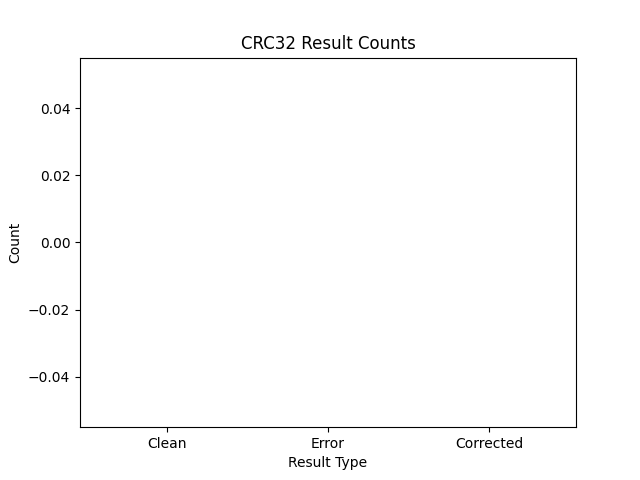
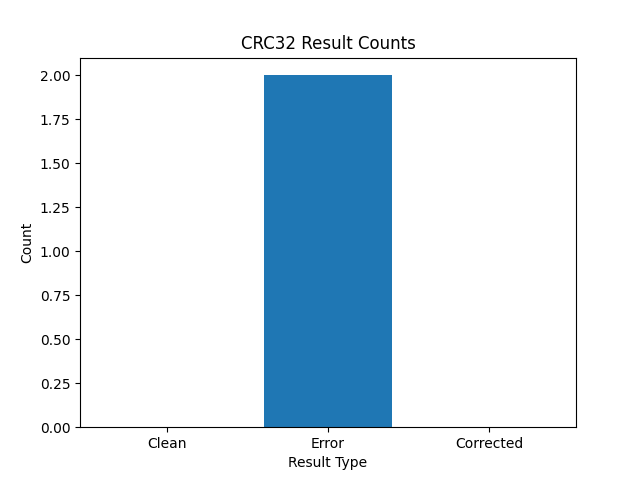
pruebas done

diff --git a/pruebas.py b/pruebas.py
@@ -75,15 +75,6 @@ if __name__ == "__main__":
                 with open("hamming.txt", "w") as hamming_file:
                     hamming_file.truncate(0)
 
-                # Crear la gráfica de barras para Hamming
-                plt.bar(x, hamming_counts, align='center')
-                plt.xlabel('Result Type')
-                plt.ylabel('Count')
-                plt.title('Hamming Result Counts')
-                plt.xticks(x, labels)
-                plt.savefig('hamming_' + str(probabilidad) +'.png' )
-                plt.clf()
-
             if os.path.exists("crc32.txt"):
                 with open("crc32.txt", "r") as crc32_file:
                     lines = crc32_file.readlines()
@@ -99,11 +90,26 @@ if __name__ == "__main__":
                 with open("crc32.txt", "w") as crc32_file:
                     crc32_file.truncate(0)
 
-                # Crear la gráfica de barras para Hamming
+            
+            if metodo == 1:
+                # Gráfica de Hamming
+                hamming_counts = [clean_counts_hamming, error_counts_hamming, corrected_counts_hamming]
+                plt.bar(x, hamming_counts, align='center')
+                plt.xlabel('Result Type')
+                plt.ylabel('Count')
+                plt.title('Hamming Result Counts')
+                plt.xticks(x, labels)
+                plt.savefig('hamming_' + str(probabilidad) + '.png')
+                plt.clf()
+
+            else:
+
+                # Gráfica de CRC32
+                crc32_counts = [clean_counts_crc32, error_counts_crc32, corrected_counts_crc32]
                 plt.bar(x, crc32_counts, align='center')
                 plt.xlabel('Result Type')
                 plt.ylabel('Count')
                 plt.title('CRC32 Result Counts')
                 plt.xticks(x, labels)
-                plt.savefig('crc32_' + str(probabilidad) +'.png' )
+                plt.savefig('crc32_' + str(probabilidad) + '.png')
                 plt.clf()
